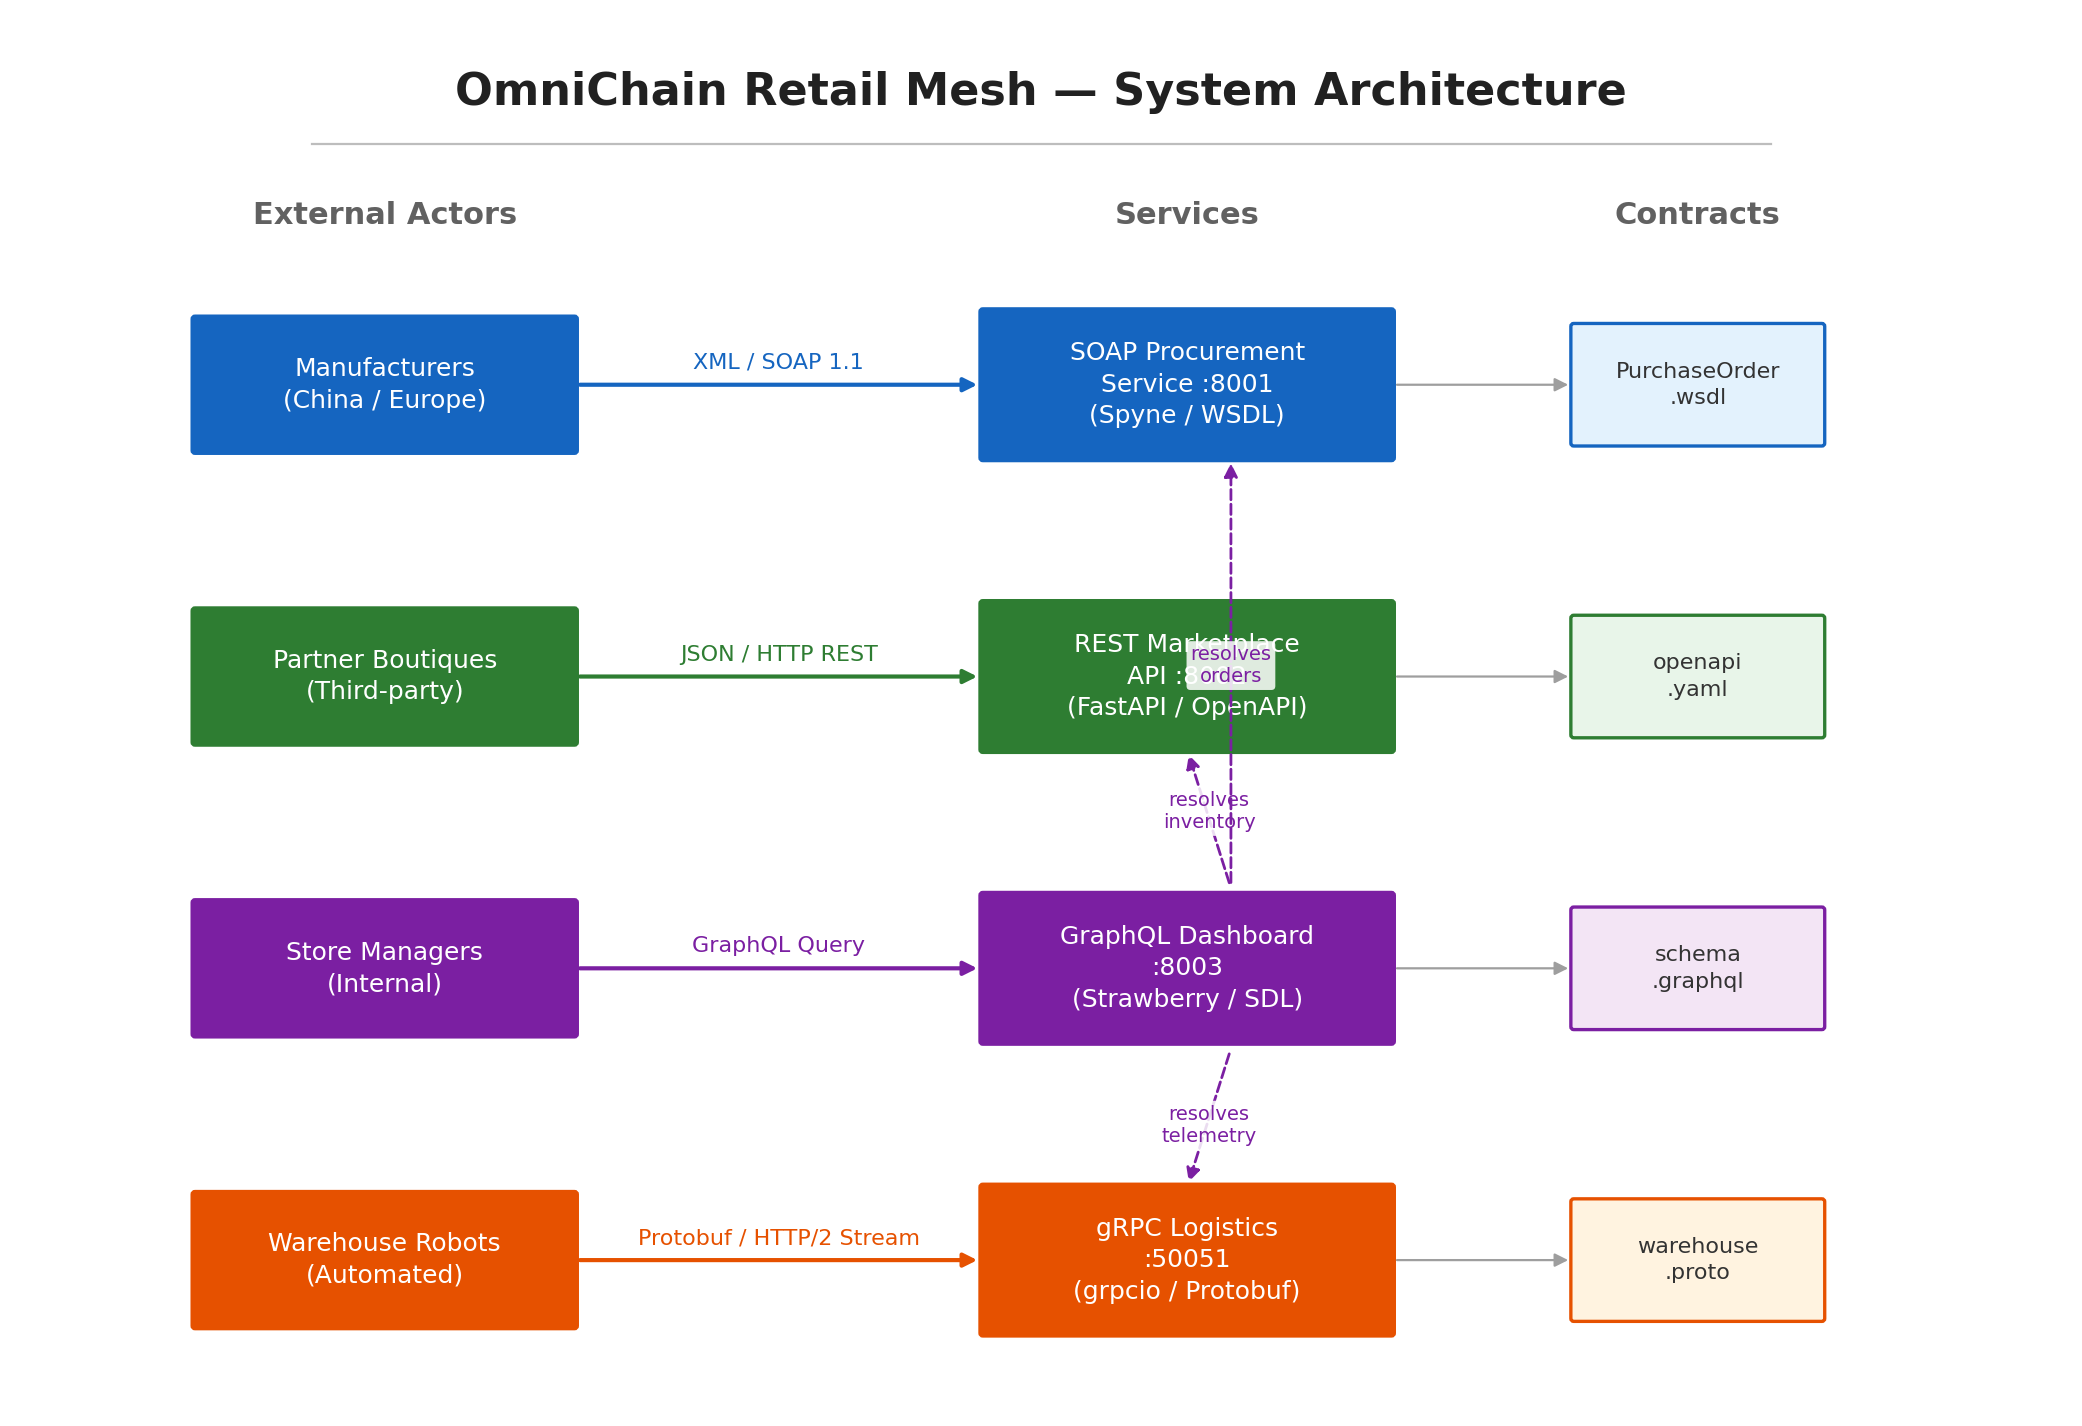
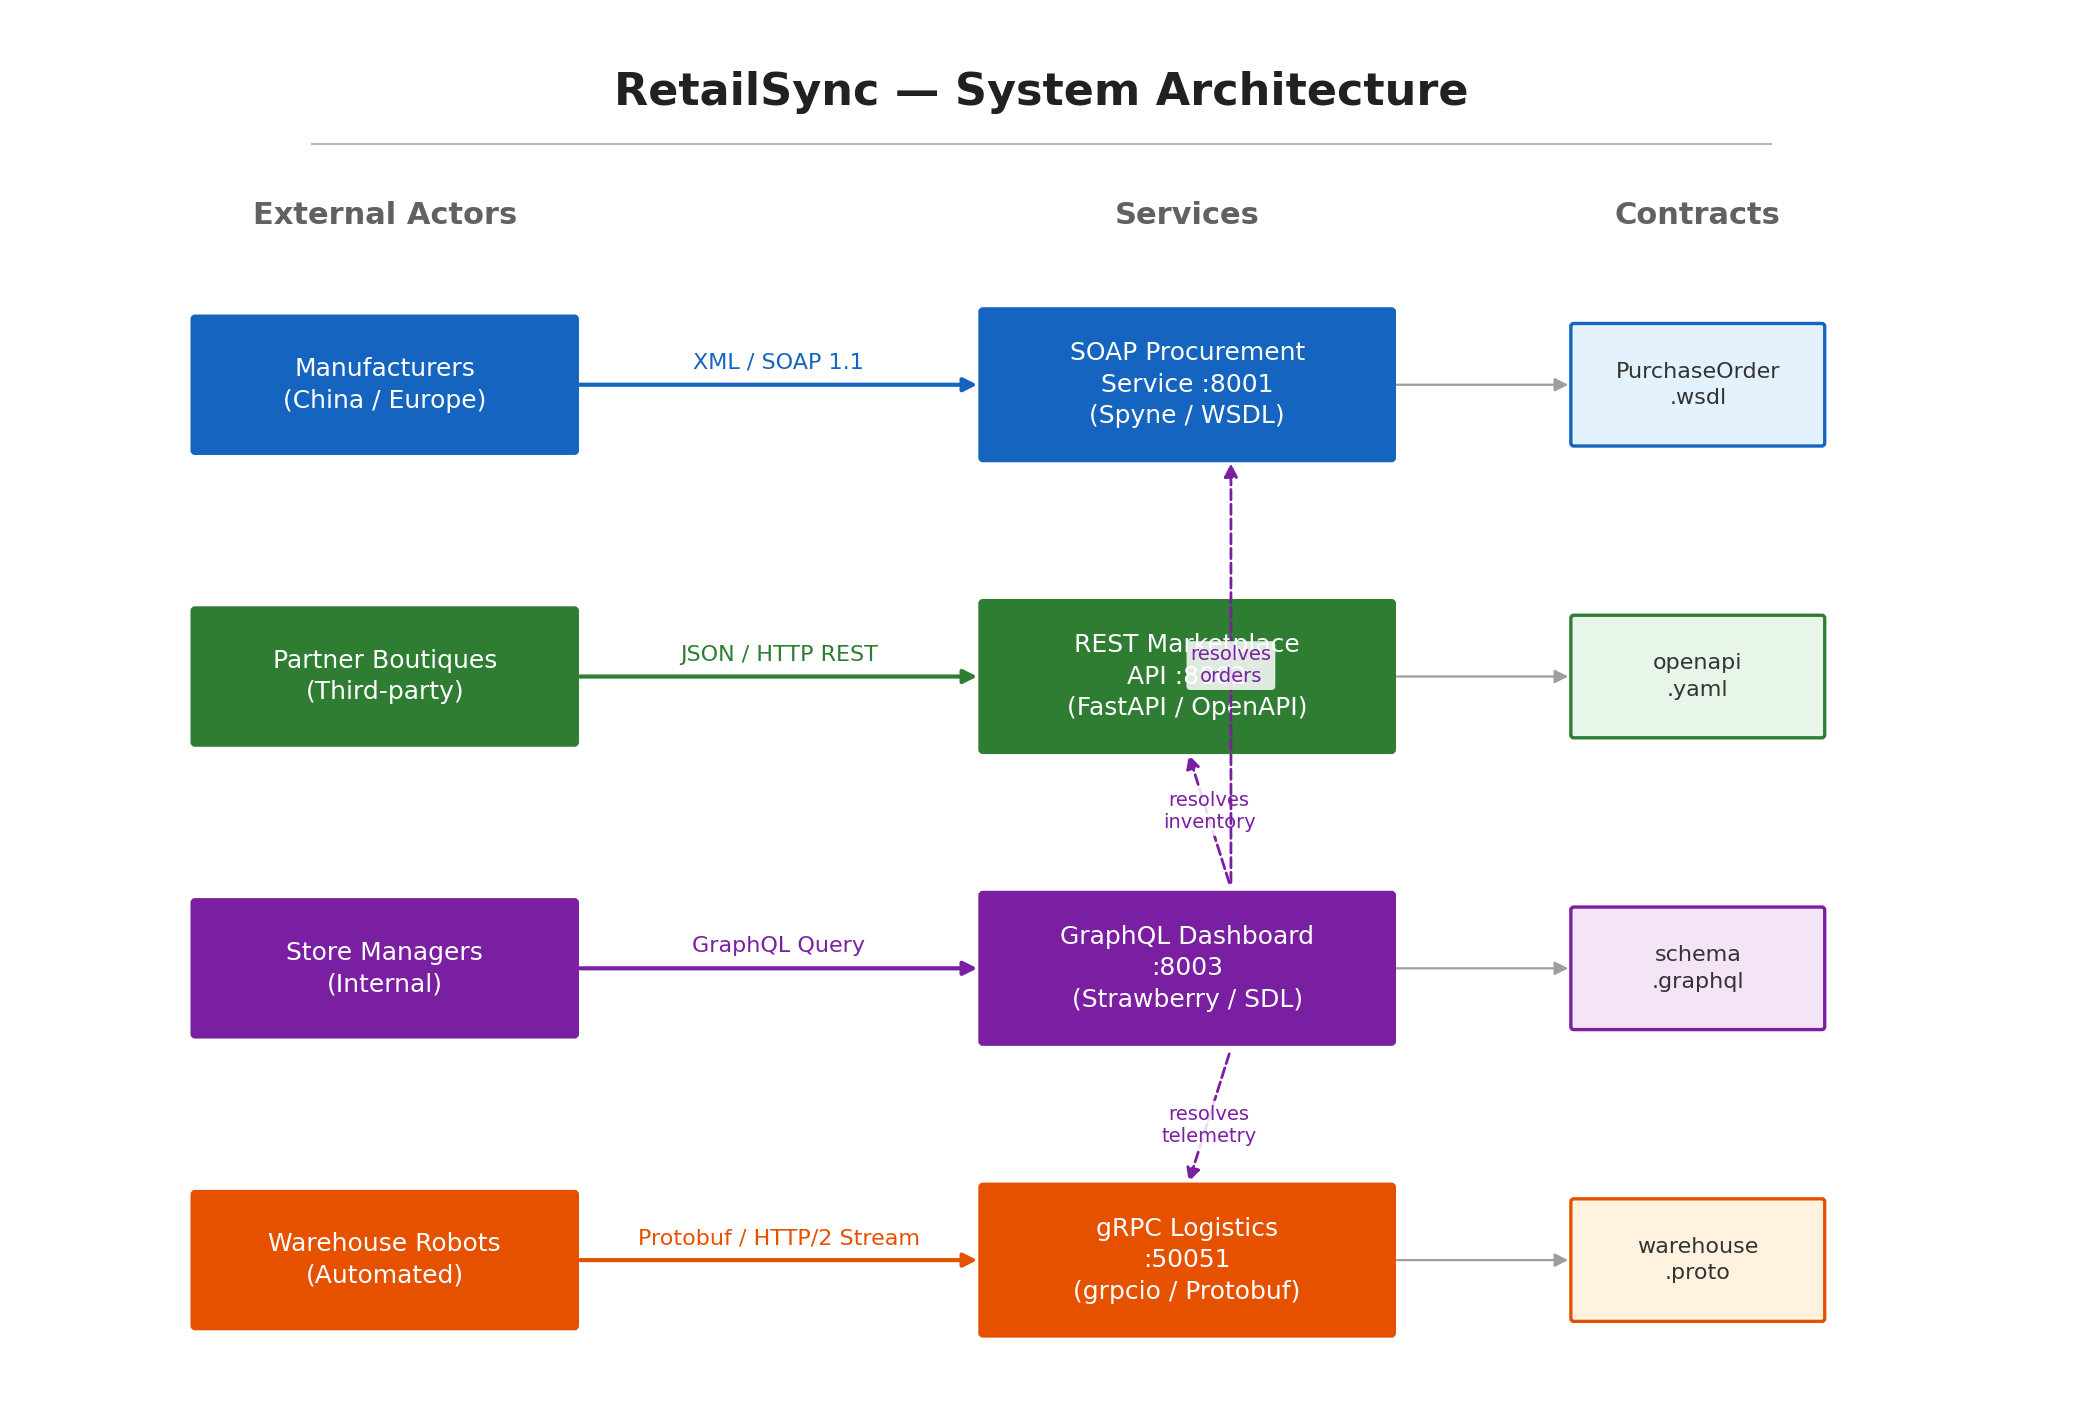
refactor: rename project to RetailSync

Changed region(s): [[0.2185, 0.0309, 0.7805, 0.0926]]

diff --git a/procurement/mock-server/server.py b/procurement/mock-server/server.py
@@ -25,7 +25,7 @@ from datetime import date, timedelta
 
 class OrderItem(ComplexModel):
     """A single line-item in a purchase order."""
-    __namespace__ = "http://omnichain.retail/procurement"
+    __namespace__ = "http://retailsync.retail/procurement"
 
     sku              = Unicode(min_occurs=1, max_occurs=1)
     product_name     = Unicode()
@@ -36,7 +36,7 @@ class OrderItem(ComplexModel):
 
 class PurchaseOrder(ComplexModel):
     """Full purchase order sent to the manufacturer."""
-    __namespace__ = "http://omnichain.retail/procurement"
+    __namespace__ = "http://retailsync.retail/procurement"
 
     order_id        = Unicode()
     buyer_org_id    = Unicode()
@@ -48,7 +48,7 @@ class PurchaseOrder(ComplexModel):
 
 class OrderResponse(ComplexModel):
     """Confirmation returned by the manufacturer."""
-    __namespace__ = "http://omnichain.retail/procurement"
+    __namespace__ = "http://retailsync.retail/procurement"
 
     confirmation_id    = Unicode()
     status             = Unicode()
@@ -94,7 +94,7 @@ class ProcurementService(Service):
 
 application = Application(
     services=[ProcurementService],
-    tns="http://omnichain.retail/procurement",
+    tns="http://retailsync.retail/procurement",
     name="ProcurementService",
     in_protocol=Soap11(validator="lxml"),
     out_protocol=Soap11(),
@@ -107,7 +107,7 @@ if __name__ == "__main__":
     PORT = 8001
 
     print("=" * 60)
-    print("  OmniChain Retail Mesh - SOAP Procurement Service")
+    print("  RetailSync - SOAP Procurement Service")
     print("=" * 60)
     print(f"  SOAP endpoint : http://localhost:{PORT}/")
     print(f"  WSDL          : http://localhost:{PORT}/?wsdl")

diff --git a/diagrams/generate_diagrams.py b/diagrams/generate_diagrams.py
@@ -1,5 +1,5 @@
 """
-Generates all presentation diagrams for the OmniChain Retail Mesh project.
+Generates all presentation diagrams for the RetailSync project.
 
 Produces 5 high-resolution PNG files in the diagrams/ directory:
   01_master_architecture.png
@@ -92,7 +92,7 @@ def generate_master_architecture():
     ax.set_aspect("equal")
 
     # Title
-    ax.text(6, 8.5, "OmniChain Retail Mesh — System Architecture",
+    ax.text(6, 8.5, "RetailSync — System Architecture",
             **TITLE_FONT, ha="center", va="center", color="#212121")
     ax.plot([1, 11], [8.15, 8.15], color="#BDBDBD", lw=0.8)
 
@@ -274,7 +274,7 @@ def generate_soap_sequence():
     sd = SequenceDiagram(
         "SOAP — B2B Procurement Flow",
         [("Manufacturer ERP", "(SAP / Oracle)"),
-         ("OmniChain Gateway", ""),
+         ("RetailSync Gateway", ""),
          ("ProcurementService", ":8001 (Spyne)")],
         "soap", fig_height=10
     )
@@ -444,7 +444,7 @@ def generate_decision_tree():
     ax.set_ylim(-0.5, 11)
     ax.axis("off")
 
-    ax.text(8, 10.5, "OmniChain Protocol Selection Logic",
+    ax.text(8, 10.5, "RetailSync Protocol Selection Logic",
             **TITLE_FONT, ha="center", va="center", color="#212121")
     ax.plot([2, 14], [10.15, 10.15], color="#BDBDBD", lw=0.8)
 
@@ -797,7 +797,7 @@ def generate_payload_comparison():
 
 if __name__ == "__main__":
     print("=" * 60)
-    print("  Generating OmniChain presentation diagrams...")
+    print("  Generating RetailSync presentation diagrams...")
     print("=" * 60)
 
     generate_master_architecture()

diff --git a/dashboard/mock-server/server.py b/dashboard/mock-server/server.py
@@ -105,7 +105,7 @@ class DashboardSummary:
 MOCK_STORES = [
     Store(
         id=strawberry.ID("STORE-PARIS-01"),
-        name="OmniChain Paris - Le Marais",
+        name="RetailSync Paris - Le Marais",
         city="Paris",
         country="France",
         inventory=[
@@ -135,7 +135,7 @@ MOCK_STORES = [
     ),
     Store(
         id=strawberry.ID("STORE-BERLIN-02"),
-        name="OmniChain Berlin - Mitte",
+        name="RetailSync Berlin - Mitte",
         city="Berlin",
         country="Germany",
         inventory=[
@@ -207,7 +207,7 @@ schema = strawberry.Schema(query=Query)
 graphql_app = GraphQLRouter(schema)
 
 app = FastAPI(
-    title="OmniChain Retail Mesh - Manager Dashboard (GraphQL)",
+    title="RetailSync - Manager Dashboard (GraphQL)",
     description="GraphQL aggregator gateway for store managers.",
     version="1.0.0",
 )
@@ -215,7 +215,7 @@ app.include_router(graphql_app, prefix="/graphql")
 
 if __name__ == "__main__":
     print("=" * 60)
-    print("  OmniChain Retail Mesh - GraphQL Dashboard")
+    print("  RetailSync - GraphQL Dashboard")
     print("=" * 60)
     print("  GraphQL endpoint : http://localhost:8003/graphql")
     print("  GraphiQL IDE     : http://localhost:8003/graphql")

diff --git a/marketplace/mock-server/server.py b/marketplace/mock-server/server.py
@@ -74,7 +74,7 @@ inventory_db: list[InventoryItem] = [
 # ---------------------------------------------------------------------------
 
 app = FastAPI(
-    title="OmniChain Retail Mesh - Partner Marketplace API",
+    title="RetailSync - Partner Marketplace API",
     description="REST API for third-party boutiques to synchronise inventory.",
     version="1.0.0",
 )
@@ -131,7 +131,7 @@ def update_inventory_item(sku: str, update: InventoryUpdate):
 
 if __name__ == "__main__":
     print("=" * 60)
-    print("  OmniChain Retail Mesh - REST Marketplace API")
+    print("  RetailSync - REST Marketplace API")
     print("=" * 60)
     print("  API endpoint  : http://localhost:8002")
     print("  Swagger UI    : http://localhost:8002/docs")

diff --git a/logistics/mock-server/server.py b/logistics/mock-server/server.py
@@ -96,7 +96,7 @@ def serve():
     server.start()
 
     print("=" * 60)
-    print("  OmniChain Retail Mesh - gRPC Warehouse Automation")
+    print("  RetailSync - gRPC Warehouse Automation")
     print("=" * 60)
     print(f"  gRPC endpoint  : localhost:{PORT}")
     print(f"  Protocol       : gRPC / HTTP/2 / Protobuf")

diff --git a/logistics/mock-server/client.py b/logistics/mock-server/client.py
@@ -53,7 +53,7 @@ def generate_commands():
 
 def run():
     print("=" * 60)
-    print("  OmniChain Retail Mesh - gRPC Warehouse Client")
+    print("  RetailSync - gRPC Warehouse Client")
     print("=" * 60)
     print()
 

diff --git a/TESTING_GUIDE.md b/TESTING_GUIDE.md
@@ -1,4 +1,4 @@
-# Testing Guide -- OmniChain Retail Mesh
+# Testing Guide -- RetailSync
 
 This guide walks you through starting every mock server, verifying each one from the terminal, and then importing and running the full Postman test suite.
 
@@ -46,7 +46,7 @@ python procurement/mock-server/server.py
 Expected output:
 ```
 ============================================================
-  OmniChain Retail Mesh - SOAP Procurement Service
+  RetailSync - SOAP Procurement Service
 ============================================================
   SOAP endpoint : http://localhost:8001/
   WSDL          : http://localhost:8001/?wsdl
@@ -59,7 +59,7 @@ python marketplace/mock-server/server.py
 Expected output:
 ```
 ============================================================
-  OmniChain Retail Mesh - REST Marketplace API
+  RetailSync - REST Marketplace API
 ============================================================
   API endpoint  : http://localhost:8002
   Swagger UI    : http://localhost:8002/docs
@@ -72,7 +72,7 @@ python dashboard/mock-server/server.py
 Expected output:
 ```
 ============================================================
-  OmniChain Retail Mesh - GraphQL Dashboard
+  RetailSync - GraphQL Dashboard
 ============================================================
   GraphQL endpoint : http://localhost:8003/graphql
 ```
@@ -84,7 +84,7 @@ python logistics/mock-server/server.py
 Expected output:
 ```
 ============================================================
-  OmniChain Retail Mesh - gRPC Warehouse Automation
+  RetailSync - gRPC Warehouse Automation
 ============================================================
   gRPC endpoint  : localhost:50051
 ```
@@ -169,8 +169,8 @@ Expected: first a unary response with robot position and battery, then a stream 
 1. Open Postman.
 2. Click the **Environments** tab in the left sidebar.
 3. Click **Import**.
-4. Select the file `postman/OmniChain_Environment.json` from the project directory.
-5. You should see a new environment called **OmniChain Retail Mesh - Local** with four variables:
+4. Select the file `postman/RetailSync_Environment.json` from the project directory.
+5. You should see a new environment called **RetailSync - Local** with four variables:
    - `baseUrl_rest` = `http://localhost:8002`
    - `baseUrl_graphql` = `http://localhost:8003`
    - `baseUrl_soap` = `http://localhost:8001`
@@ -180,15 +180,15 @@ Expected: first a unary response with robot position and battery, then a stream 
 
 1. Click the **Collections** tab in the left sidebar.
 2. Click **Import**.
-3. Select the file `postman/OmniChain_Collection.json`.
-4. You should see a collection called **OmniChain Retail Mesh - Full Lifecycle** with three folders:
+3. Select the file `postman/RetailSync_Collection.json`.
+4. You should see a collection called **RetailSync - Full Lifecycle** with three folders:
    - Module 1: REST - Partner Marketplace (3 requests)
    - Module 2: GraphQL - Manager Dashboard (2 requests)
    - Module 3: SOAP - B2B Procurement (1 request)
 
 ### 4.3 Select the Environment
 
-In the top-right corner of Postman, click the environment dropdown and select **OmniChain Retail Mesh - Local**. This activates the base URL variables used by all requests.
+In the top-right corner of Postman, click the environment dropdown and select **RetailSync - Local**. This activates the base URL variables used by all requests.
 
 -
 
@@ -213,7 +213,7 @@ Before running the full collection, test one request to confirm connectivity:
    - Ensure all 6 requests are checked.
    - Iterations: 1.
    - Delay: 0 ms.
-3. Click **Run OmniChain Retail Mesh - Full Lifecycle**.
+3. Click **Run RetailSync - Full Lifecycle**.
 4. Wait for all requests to complete. You should see:
    - 6/6 requests completed
    - All test assertions passing (green check marks)
@@ -303,4 +303,4 @@ Postman handles gRPC through a dedicated interface, not standard HTTP requests.
 | Port already in use | Kill the process: `lsof -ti:PORT_NUMBER \| xargs kill -9` |
 | gRPC stubs not found | Re-run the `grpc_tools.protoc` command from Step 1 |
 | Postman shows `Could not send request` | Verify the environment is selected (top-right dropdown) |
-| SOAP returns 500 | Check the XML envelope matches the expected namespace `http://omnichain.retail/procurement` |
+| SOAP returns 500 | Check the XML envelope matches the expected namespace `http://retailsync.retail/procurement` |

diff --git a/PRESENTATION_DIAGRAMS.md b/PRESENTATION_DIAGRAMS.md
@@ -1,4 +1,4 @@
-# OmniChain Retail Mesh -- Presentation Diagrams and Slide Content
+# RetailSync -- Presentation Diagrams and Slide Content
 
 All diagrams are available as PNG images in the `diagrams/` folder, ready for direct insertion into your slides.
 
@@ -7,7 +7,7 @@ All diagrams are available as PNG images in the `diagrams/` folder, ready for di
 
 Use this as the opening "Big Picture" slide.
 
-![OmniChain Retail Mesh - System Architecture](/Users/ayamorsli/projet-API/diagrams/01_master_architecture.png)
+![RetailSync - System Architecture](/Users/ayamorsli/projet-API/diagrams/01_master_architecture.png)
 
 
 ## 1. SOAP -- B2B Procurement
@@ -149,7 +149,7 @@ Use this on a single slide for a side-by-side overview.
 
 Use this to demonstrate the **logical reasoning** behind each technology choice.
 
-![OmniChain Protocol Selection Logic](/Users/ayamorsli/projet-API/diagrams/06_decision_tree.png)
+![RetailSync Protocol Selection Logic](/Users/ayamorsli/projet-API/diagrams/06_decision_tree.png)
 
 **Pro-Speaker Note:** *"REST is our default — we only deviate when a requirement explicitly demands something REST cannot provide. This decision tree shows that every non-REST choice is driven by a concrete constraint, not by novelty."*
 

diff --git a/README.md b/README.md
@@ -1,4 +1,4 @@
-# OmniChain Retail Mesh -- Phase 1: Contracts and Mocks
+# RetailSync -- Phase 1: Contracts and Mocks
 
 A Proof-of-Concept demonstrating how a global retail brand orchestrates four distinct communication paradigms across its supply chain. Each paradigm was chosen to match the operational constraints and integration requirements of its respective domain.
 
